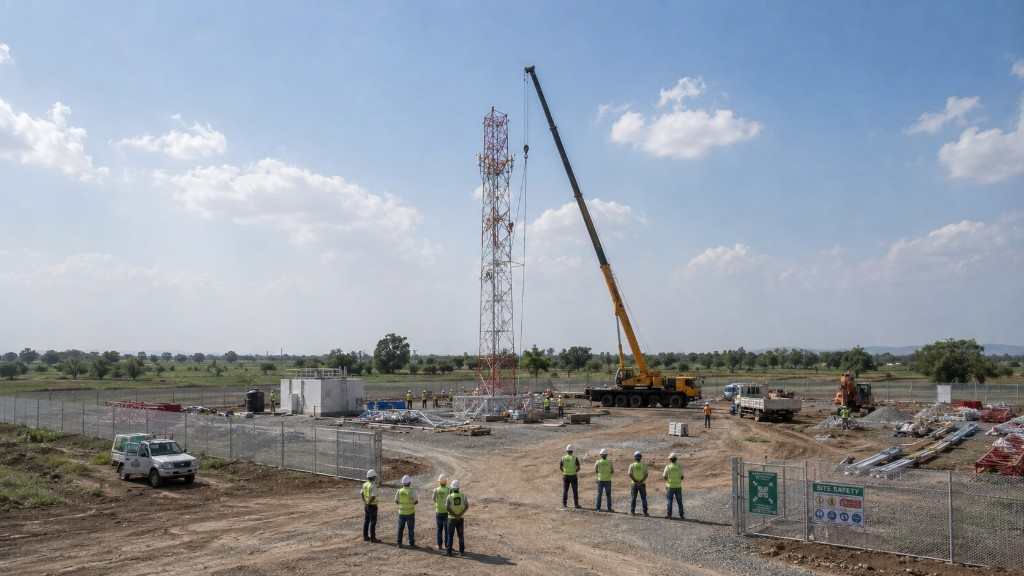
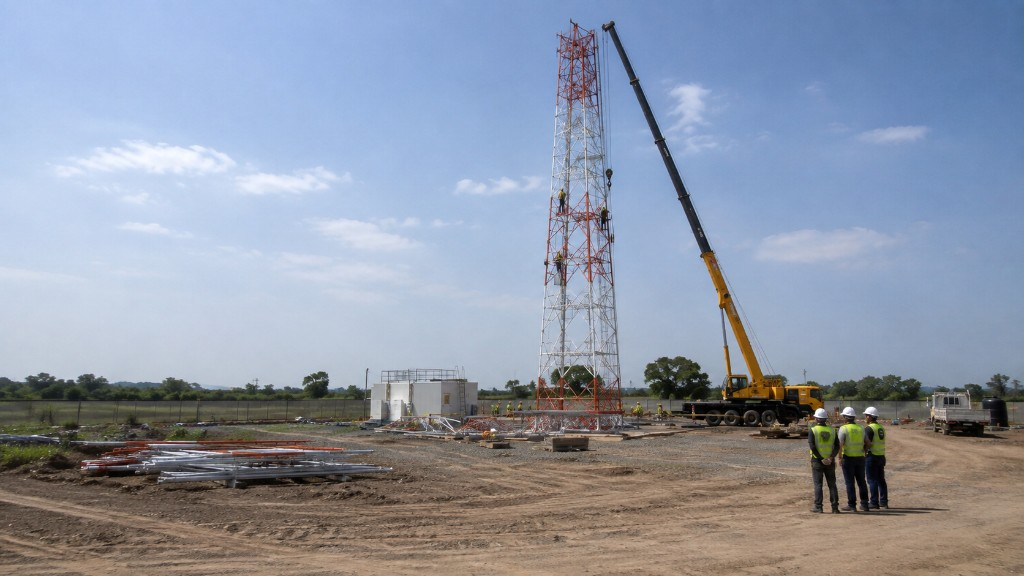
done abg min request

diff --git a/expertise.html b/expertise.html
@@ -67,7 +67,7 @@
           </div>
         </div>
         <div class="rounded-xl overflow-hidden border border-slate-200">
-          <img src="assets/images/stock/meeting-kesb.jpg" alt="KESB project planning meeting" class="w-full h-80 object-cover">
+          <img src="assets/images/stock/site-discussion.jpg" alt="KESB team reviewing plans on a telecom tower site" class="w-full h-80 object-cover">
         </div>
       </div>
     </div>
